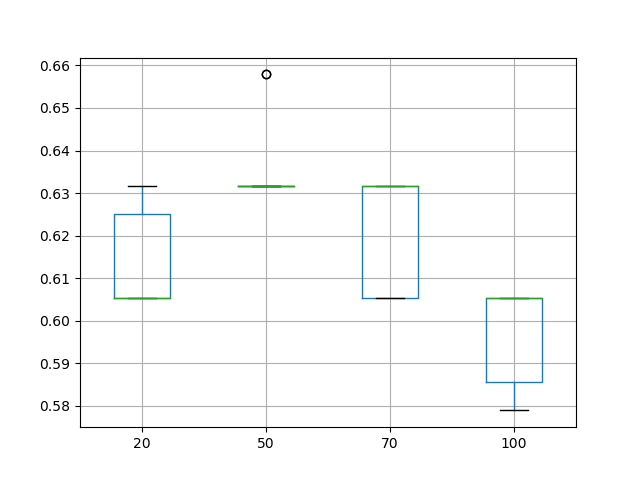
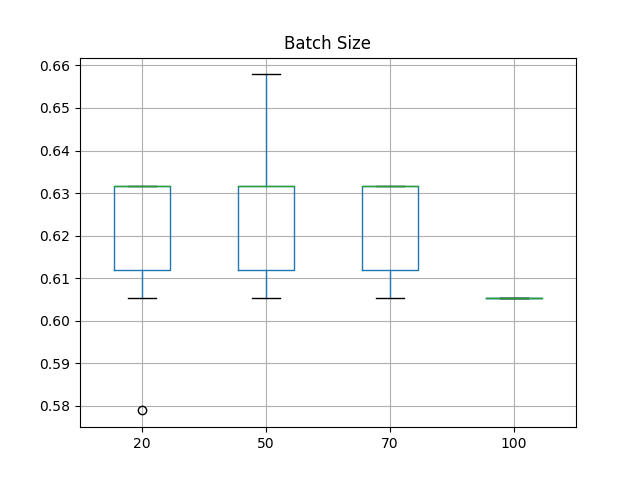
Adding Images

diff --git a/README.md b/README.md
@@ -9,14 +9,19 @@ This information would give milk producers an idea of whether or not they should
 ## Data Sources
 
 Quandl.com - historic futures prices for Milk, Cheese, Dry Milk and corn
-NASS.usda.gov - monthly milk production http://usda.mannlib.cornell.edu/MannUsda/viewDocumentInfo.do?documentID=1103
 
+Weekly data.  Start: 12/01/2013  End: 8/27/2017
+
+NASS.usda.gov - monthly milk production https://quickstats.nass.usda.gov/results/2F655051-7BEE-3F05-BA0F-0EA083C6F1F5
+
+Monthly data.  Start 01/2011  End 08/2017
 
 ![Milk Futures Prices](https://github.com/FawcettB98/Milk_Futures/blob/master/images/rolling_mean.png)
+Historical prices for Milk Futures along with moving average Mean and Standard Deviation.
 
 ## Baseline Prediction  
 
-The model will be considered successful if it can predict the movement of the futures prices with more accuracy than a very simple model where you predict that in this period the price will move in the same direction as it did in the last period.  A test was run with this strategy and found that it predicted the movements with an accuracy of 57.7%.  
+The model will be considered successful if it can predict the movement of the futures prices with more accuracy than a very simple model. This model will predict that the price will move in the same direction as it did in the previous period.  A test was run with this strategy and found that it predicted the movements with an accuracy of 57.7%.  
 
 ## Time series
 Most financial instrument prices can be modeled as time series since the time component is key.  In order to be modeled a time series must be "stationary", which means that the statistical properties (mean, variance, autocorrelation, etc) are constant over time.   There is a statistical test for stationarity known as the Dicky-Fuller Test.  For the Milk Futures time series this test came up with a p-value of 0.24.  This can be interpreted as showing that the series is not stationary.  There are ways to adjust for this, such as differencing the data, which are included in the methods described below.
@@ -29,7 +34,7 @@ The first model is based solely on the past prices of the Milk Futures.  This is
 
 ![PACF Plot](https://github.com/FawcettB98/Milk_Futures/blob/master/images/pacf.png)
 
-Without going into a lot of detail, these plots indicate that an AR parameter of 9 (look back 9 periods at the values) and an MA parameter of 0 (no Moving Average component) seem appropriate.  An I parameter of 1 was used to make the series more stationary.  The data was split into a "training" dataset of 156 weeks and a "test" dataset of 38 weeks.  The following graphs show how well the model fits the training data along with predictions into the test data:
+These plots indicate that an AR parameter of 9 (look back 9 periods at the values) and an MA parameter of 0 (no Moving Average component) seem appropriate.  An I parameter of 1 was used to make the series more stationary.  The data was split into a "training" dataset of 156 weeks and a "test" dataset of 38 weeks.  The following graphs show how well the model fits the training data along with predictions into the test data:
 
 ![Model Fit](https://github.com/FawcettB98/Milk_Futures/blob/master/images/arima_fit.png)
 
@@ -50,15 +55,19 @@ The accuracy of this model is 57.9%, so very slightly better than the baseline p
 
 
 ## Neural network
-A competing model was created using a Recurrent Neural Net.  
+A competing model was created using a Recurrent Neural Networks.  
 
 ![Boxplot Epochs](https://github.com/FawcettB98/Milk_Futures/blob/master/images/deep_neural_network.png)
+
+Training occurs in the hidden (blue) layers by minimizing error.  The particular type of network used - Long Short-Term Memory (LSTM) - allows the network to look into the past in the training.
+
+There are several parameters that need to be "tuned" in the network.  These include:
 
 Epoch:  "one pass over the entire dataset".  Used to separate the trianing into distinct phases.
 
 Batch Size:  The number of samples that are propagated through the network
 
-Neurons:  
+Neurons:  Number of interconnected units in the network
 
 Since neural networks use random inputs, the results for each run are slightly different.  Multiple runs were used for various levels of these parameters.  Boxplots of the results are shown below:
 
@@ -68,8 +77,10 @@ Since neural networks use random inputs, the results for each run are slightly d
 
 ![Boxplot Neurons](https://github.com/FawcettB98/Milk_Futures/blob/master/images/boxplot_neurons.png)
 
-Looking at these box-plots, it looks like the best parameters to use are 1000 epochs, a batch size of 50, and 100 neurons.  
+Looking at these box-plots, it looks like the best parameters to use are 1000 epochs, a batch size of 50, and 50 neurons.  
 
 ![RNN Fit](https://github.com/FawcettB98/Milk_Futures/blob/master/images/rnn_act_v_pred.png)
 
 The final average accuracy turns out to be about 63%.  This is roughly 10% better than the baseline accuracy.
+
+## Conclusion
